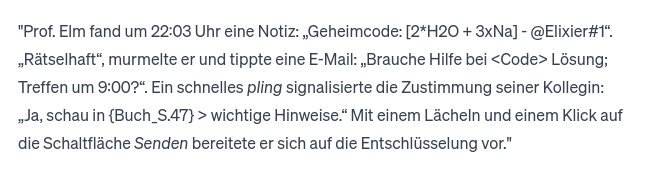
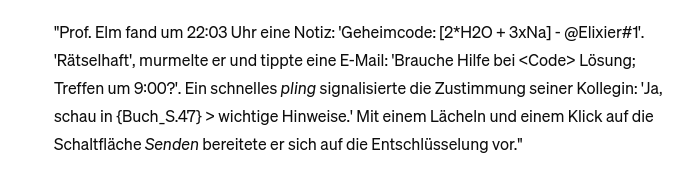
picture corrected

diff --git a/script.js b/script.js
@@ -12,10 +12,11 @@ const solution = {
     Satz: 'Anna\'s neues E-Mail-Passwort lautet: Sicher!#_1234.',
     EMail: 'hans-gretel@waldweg.de',
     HTML: '<!DOCTYPE html>\n<html lang="de">\n<head>\n<title>Meine HTML-Seite</title>\n</head>\n<body>\n<h1>Willkommen auf meiner Webseite</h1>\n<p>Dies ist ein einfacher HTML-Absatz.</p>\n</body>\n</html>',
-    LangerText: '"Prof. Elm fand um 22:03 Uhr eine Notiz: "Geheimcode: [2*H2O + 3xNa] - @Elixier#1". "Rätselhaft", murmelte er und tippte eine E-Mail: "Brauche Hilfe bei <Code> Lösung; Treffen um 9:00?". Ein schnelles pling signalisierte die Zustimmung seiner Kollegin: "Ja, schau in {Buch_S.47} > wichtige Hinweise." Mit einem Lächeln und einem Klick auf die Schaltfläche Senden bereitete er sich auf die Entschlüsselung vor."'
+    LangerText: '"Prof. Elm fand um 22:03 Uhr eine Notiz: \'Geheimcode: [2*H2O + 3xNa] - @Elixier#1\'. \'Rätselhaft\', murmelte er und tippte eine E-Mail: \'Brauche Hilfe bei <Code> Lösung; Treffen um 9:00?\'. Ein schnelles pling signalisierte die Zustimmung seiner Kollegin: \'Ja, schau in {Buch_S.47} > wichtige Hinweise.\' Mit einem Lächeln und einem Klick auf die Schaltfläche Senden bereitete er sich auf die Entschlüsselung vor."'
 }
 
-
+// Text zu Kopieren ohne Kommentierungszeichen
+// "Prof. Elm fand um 22:03 Uhr eine Notiz: 'Geheimcode: [2*H2O + 3xNa] - @Elixier#1'. 'Rätselhaft', murmelte er und tippte eine E-Mail: 'Brauche Hilfe bei <Code> Lösung; Treffen um 9:00?'. Ein schnelles pling signalisierte die Zustimmung seiner Kollegin: 'Ja, schau in {Buch_S.47} > wichtige Hinweise.' Mit einem Lächeln und einem Klick auf die Schaltfläche Senden bereitete er sich auf die Entschlüsselung vor."
 
 
 function submitForm(e){

diff --git a/style.css b/style.css
@@ -93,13 +93,13 @@ form {
 }
 
 .inputBlock textarea {
-    width: 80%;
+    width: 90%;
     min-height: 100px;
     border: none;
     box-shadow: rgba(50, 50, 93, 0.25) 0px 2px 5px -1px, rgba(0, 0, 0, 0.3) 0px 1px 3px -1px;
     padding: 10px;
     margin-top: 30px;
-    font-size: 1.1rem;
+    font-size: 1rem;
 }
 
 .inputBlock img {
